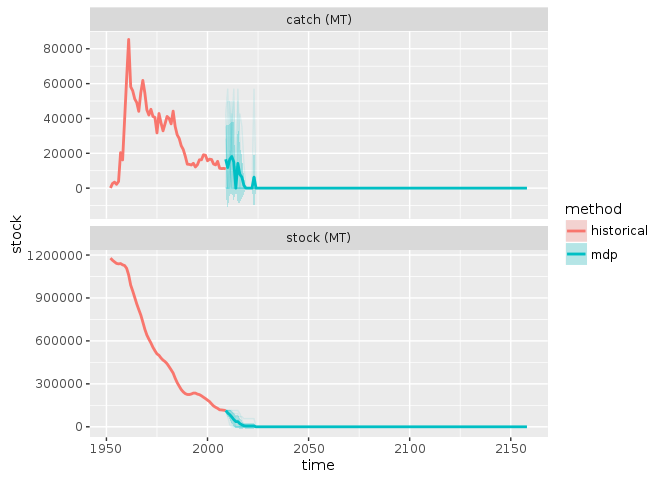
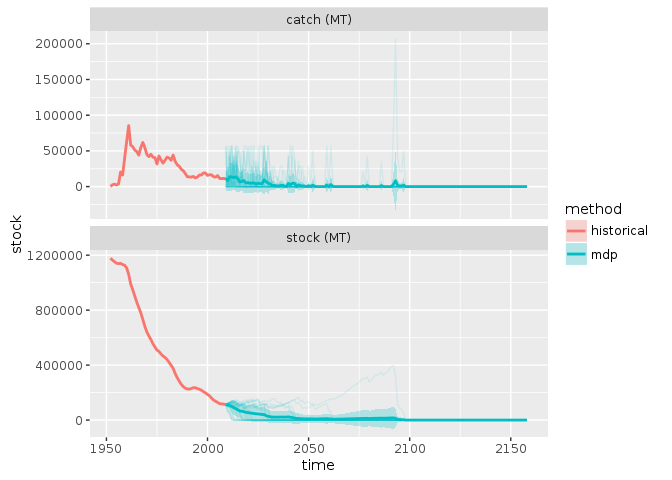
fix 'true model'

diff --git a/inst/notebook/mdp-tuna.md b/inst/notebook/mdp-tuna.md
@@ -39,10 +39,15 @@ reward_fn <- function(x,h) pmin(x,h)
 ```
 
 
-Examine the policy for the smallest r model:
+Examine the policy for true model and the smallest r model:
 
 
 ```r
+true_m <- appl::fisheries_matrices(states, actions, obs, reward_fn, f =  appl:::ricker(r, K),
+                     sigma_g = sigma_g, sigma_m  = 0.3)
+
+
+
 m <- appl::fisheries_matrices(states, actions, obs, reward_fn, f =  appl:::ricker(0.025, K),
                      sigma_g = sigma_g, sigma_m  = 0.3)
 
@@ -58,9 +63,10 @@ states[s]
 ```
 
 ```r
-mdp_compute_policy(list(m$transition), m$reward, discount) %>% 
-ggplot(aes(states[state], states[state]-actions[policy])) + geom_line() +
-geom_line(aes(states[state], actions[policy]), col='blue')
+bind_rows(smallest = mdp_compute_policy(list(m$transition), m$reward, discount),
+          true_policy = mdp_compute_policy(list(true_m$transition), true_m$reward, discount),
+          .id = "model") %>%
+ggplot(aes(states[state], states[state]-actions[policy], col=model)) + geom_line()
 ```
 
 ![](mdp-tuna_files/figure-html/unnamed-chunk-3-1.png)<!-- -->
@@ -219,11 +225,11 @@ Tmax <- 150
 future <- 2009:(2009+Tmax)
 mdp_forecast <- 
 pomdpplus::plus_replicate(25, 
-               mdp_learning(transition = transitions, reward = models[[1]]$reward, 
+               mdp_learning(transition = transitions, reward = reward, 
                             model_prior = as.numeric(mdp_hindcast$posterior[length(y),]),
                             discount = discount, x0 = x0,  Tmax = Tmax,
-                            true_transition = transitions[[1]], 
-                            observation = models[[1]]$observation),
+                            true_transition = true_m$transition, 
+                            observation = observation),
                mc.cores = parallel::detectCores())
 ```
 
@@ -256,10 +262,15 @@ ggplot(aes(time, stock)) +
 
 ## MDP Planning
 
+#### Planning only solution given posterior model belief (e.g. almost certain knowledge of model)
+
 
 ```r
-df <- mdp_planning(transitions[[1]], reward, discount, x0 = x0, Tmax = Tmax, 
-              policy = unif$policy, observation = observation)
+model_prior <- as.numeric(mdp_hindcast$posterior[length(y),])
+planning <- mdp_compute_policy(transitions, reward, discount, model_prior)
+
+df <- mdp_planning(true_m$transition, reward, discount, x0 = x0, Tmax = Tmax, 
+              policy = planning$policy, observation = observation)
 ```
 
 
@@ -273,3 +284,34 @@ df %>%
 ```
 
 ![](mdp-tuna_files/figure-html/unnamed-chunk-16-1.png)<!-- -->
+
+
+
+
+#### Det policy
+
+
+```r
+f <- appl:::ricker(r, K)
+S_star <- optimize(function(x) x / discount - f(x,0), c(min(states),max(states)))$minimum
+h <- pmax(states - S_star,  0)
+policy <- sapply(h, function(h) which.min((abs(h - actions))))
+det <- data.frame(policy, value = 1:length(states), state = 1:length(states))
+
+
+df <- mdp_planning(true_m$transition, reward, discount, x0 = x0, Tmax = Tmax, 
+              policy = det$policy, observation = observation)
+```
+
+
+
+```r
+df %>% 
+  select(-value) %>%
+  mutate(state = states[state], obs = states[obs], action = actions[action]) %>% 
+  gather(series, stock, -time) %>% 
+  ggplot(aes(time, stock, color = series)) + geom_line()
+```
+
+![](mdp-tuna_files/figure-html/unnamed-chunk-18-1.png)<!-- -->
+
